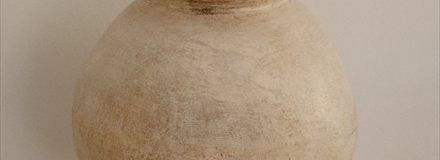
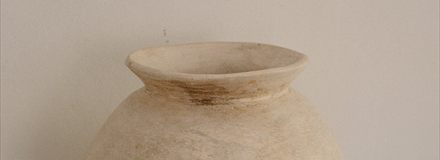
Inset the week view's rules; recrop the moon jar and mug thumbnails
- Week view gets padding on its box, so the rules stop short of the border
  instead of running into it.
- Moon jar was cropped through the belly and read as an unidentifiable beige
  band; the crop moves up the frame to take in the rim and shoulder.
- Mugs nudged up slightly to sit centred in the tile.

Claude-Session: https://claude.ai/code/session_01DAmcv378iqhrALA4aK4wrV

diff --git a/index.html b/index.html
@@ -7700,7 +7700,9 @@ function LandingHomeMock({ compact }) {
               pretending to be the real scheduler. */}
           <div style={{ minWidth: 0 }}>
             <div style={label}>This week</div>
-            <div style={{ border: "1px solid " + COLORS.hairline, borderRadius: RADIUS, overflow: "hidden" }}>
+            {/* Padding on the box so the rules stop short of its border rather
+                than running into it. */}
+            <div style={{ border: "1px solid " + COLORS.hairline, borderRadius: RADIUS, padding: "8px 10px" }}>
               <div style={{ display: "grid", gridTemplateColumns: "26px repeat(5, minmax(0, 1fr))", borderBottom: "1px solid " + COLORS.hairline }}>
                 <div />
                 {[["M", 3], ["T", 4], ["W", 5], ["T", 6], ["F", 7]].map(([d, n], i) => (
